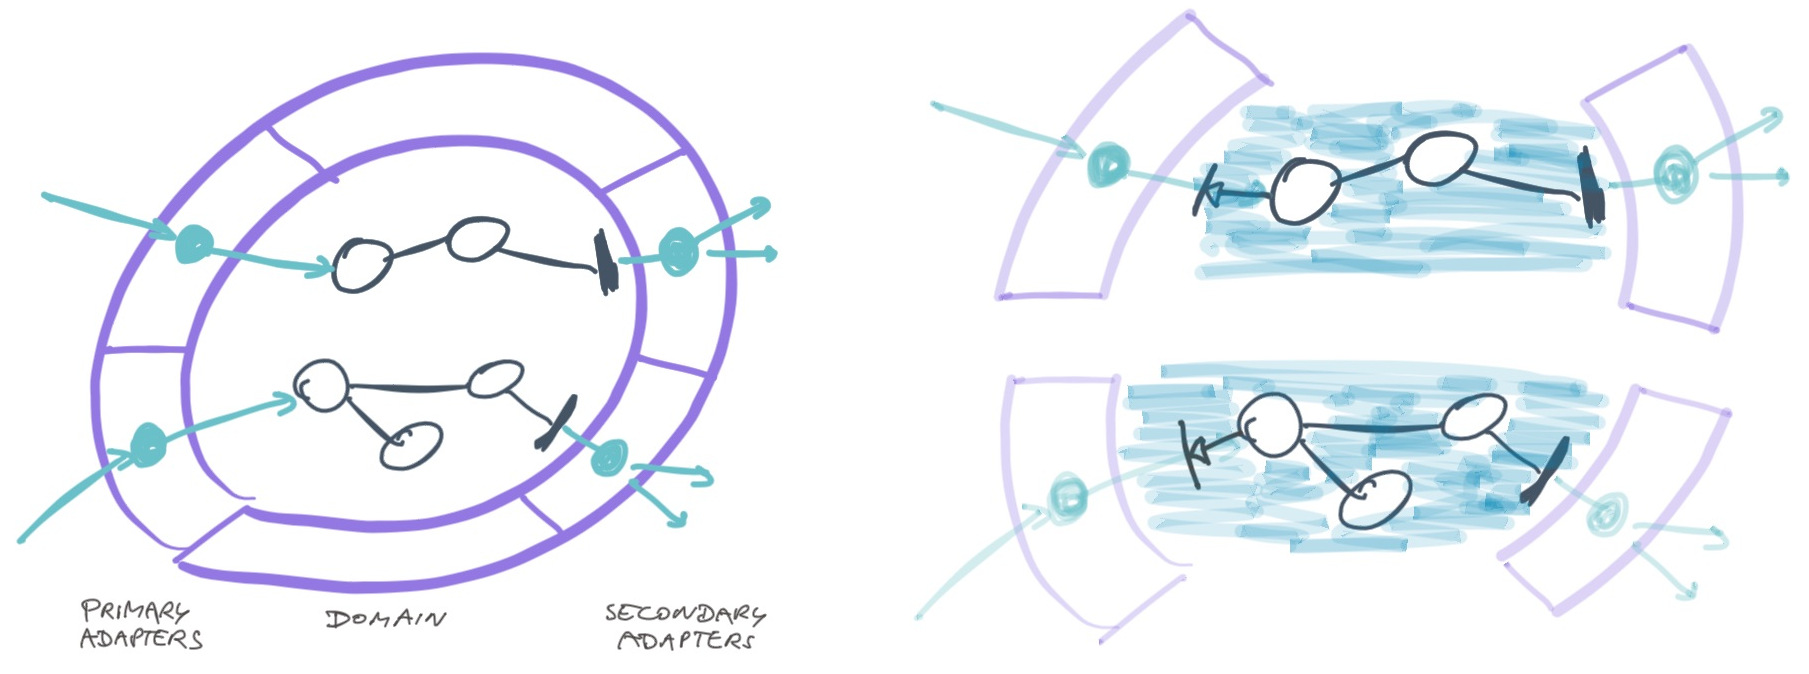
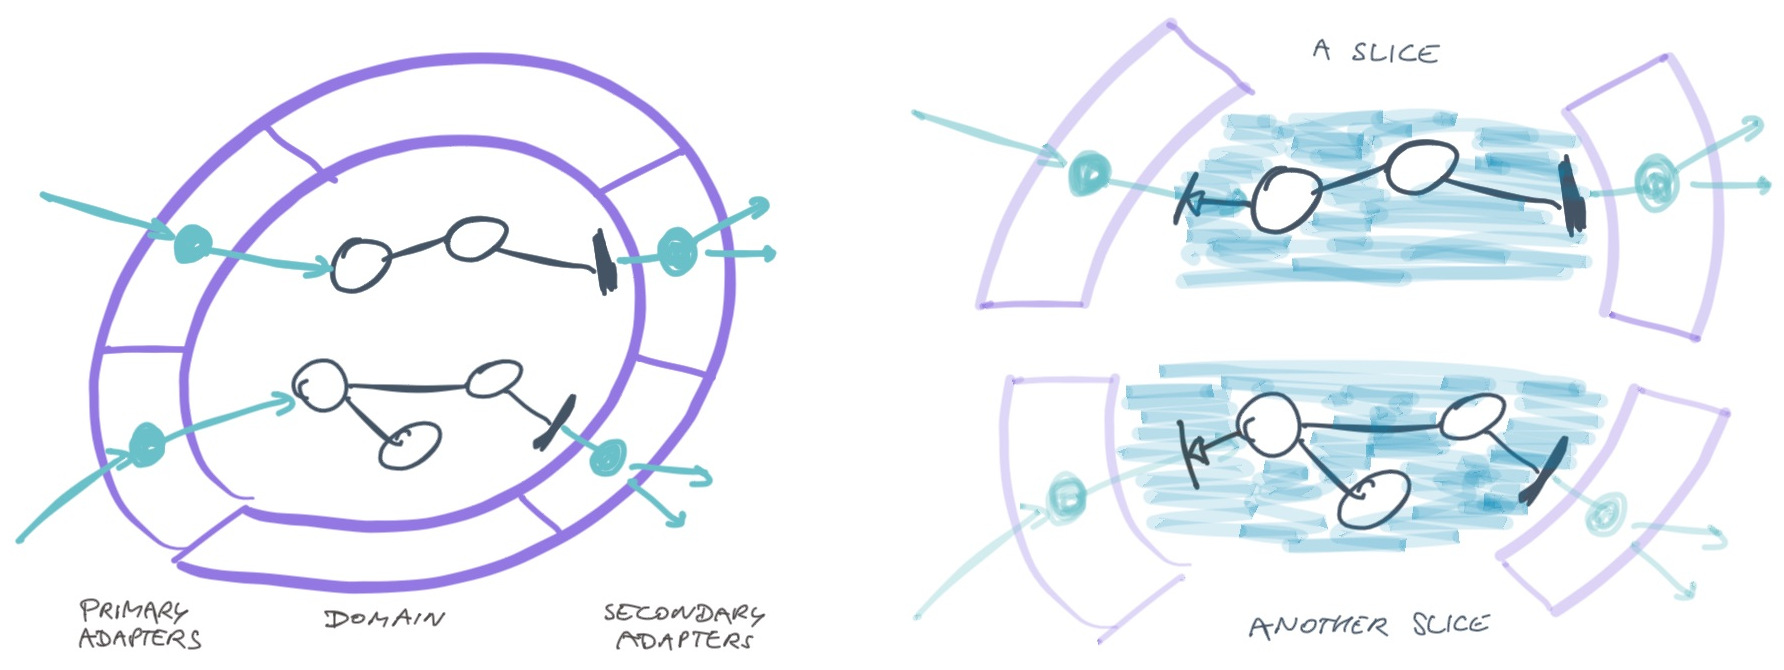
resolved conflict + updates

diff --git a/_drafts/slicing-your-cake.md b/_drafts/slicing-your-cake.md
@@ -68,7 +68,7 @@ more secondary ports, e.g. a repository or messaging.
 ![slicing your cake pattern](/attachments/blogposts/2021/slicing-your-cake.jpg)
 {: class="post-image post-image-70" }
 
-The responsibilities of a slice object are:
+The responsibilities of a slice are:
 - It acts as a Facade towards primary adapters; e.g. in a front-end component,
   it specifies/exposes what data a UI component can show and what actions it can
   trigger.
@@ -104,15 +104,11 @@ JavaScript. Inspired by how Vuex provides modularity through different
 'modules', we created a number of 'module' objects, an `AdminModule`, a
 `DiagnosticModule` and a `FacilitatorModule`.
 
-![@@plaatje met wat afdop modules]()
+![Online Agile Fluency Diagnostic tool slices](/attachments/blogposts/2021/slicing-afdop.jpg)
+{: class="post-image post-image-50" }
 
-The `diagnostic-module` provides data and actions regarding the diagnostic
-session and the associated survey. It offers e.g. the participant's colour (we
-use colours to identify participants), facilitator info, the survey questions.
-It offers actions like `join` (a participant opening the survey),
-`retrieveQuestions` (triggered by the UI to start retrieving survey questions
-asynchronously), and `confirmAnswer`/`updateAnswer` for handling the participant
-filling in the survey.
+The `diagnostic-module` slice provides data and actions regarding the diagnostic
+session and the associated survey.
 
 ```javascript
 export class DiagnosticModule {
@@ -139,30 +135,34 @@ questions and answers, and the `sessionJoiner` which handles correct joining of
 a participant so that he/she will see the correct survey.
 
 The module exposes properties to the UI components, like the color and the
-facilitator's name. It also exposes actions that can be initiated
-from the UI components, like `join` for a participant joining a session or
-`updateAnswer` for changing an answer in the survey.
+facilitator's name. It also exposes actions that can be initiated from the UI
+components, like `retrieveQuestions` to start retrieving survey questions
+asynchronously, `join` for a participant joining a session and `updateAnswer`
+for changing an answer in the survey.
 
 The module only exposes data and actions that are relevant to the UI components,
 the rest is private. UI components do not have access to repositories for
 instance.
 
-
 ## Considerations
 
-The DiagnosticModule is quite a big slice of the cake: it does a lot, handling
-diagnostic sessions for facilitators and surveys for workshop participants. We
-could split it up into smaller slices. How do we determine the size of a slice?
-If we have many small slices, it may get unwieldy. If a slice is large, we are
-probably grouping unrelated things. Some design heuristics for splitting a hexagon into slices:
-- Organize around the Aggregates you have found in event storming or some other
+The DiagnosticModule class is quite a big slice of the cake: it does a lot,
+handling diagnostic sessions for facilitators and surveys for workshop
+participants. We could split it up into smaller slices. 
+
+How do we determine the
+size of a slice? If we have many small slices, it may get unwieldy. If a slice
+is large, we tend to group unrelated things that have different reasons to change. Some design heuristics for
+splitting a hexagon into slices:
+- Organize around the [Aggregates](https://www.martinfowler.com/bliki/DDD_Aggregate.html) 
+  you have found in event storming or some other
   domain modelling technique; splitting up according to domains or bounded
   contexts will probably be too course grained.
 - If you do user story mapping, you will have mapped out users' activities and
-  tasks. User activities are candidate slices.
-- Group around things/functions working on the same data.
+  tasks; you could slice by user activity.
+- Group around objects/functions working on the same data.
 - Group data and actions related to specific user roles.
-- Data with different lifecycles can be in separate slices.
+- Put data with different lifecycles in separate slices.
 
 _Naming the slices_: we borrowed the 'module' term from Vuex. We could also
 have called it 'DiagnosticSessionSlice', or just 'DiagnosticSessions' following
@@ -177,7 +177,7 @@ _Wiring the component_: you need to instantiate 'slices' and inject any
 secondary ports. In our Vue.js based component, this is done from the main
 function.
 
-Alternatively, we could have split the front-end component into 3 separate
+We could have split the front-end component into 3 separate
 front-ends based on our different users: the administrator part, the diagnostic
 session management part, and the survey part. The trade-off here is managing 3
 simpler deployables that do have some overlapping code vs having a larger, more
@@ -218,3 +218,4 @@ _Credits:_
     <a href="/consulting">Learn more about our consultancy services</a>
   </div></p>
 </aside>
+
